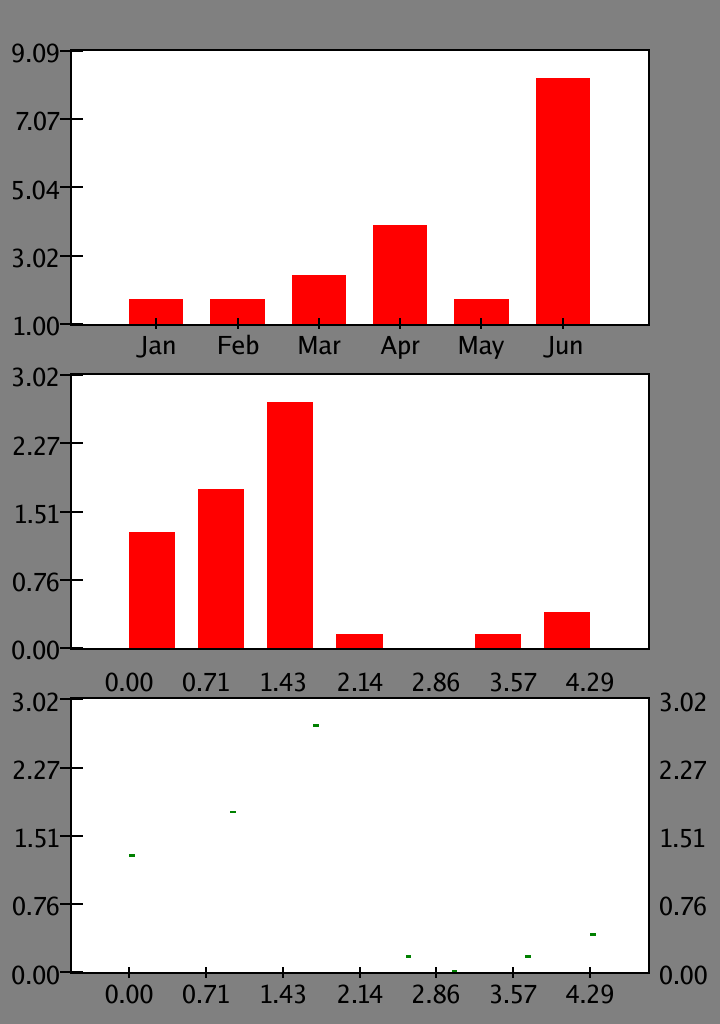
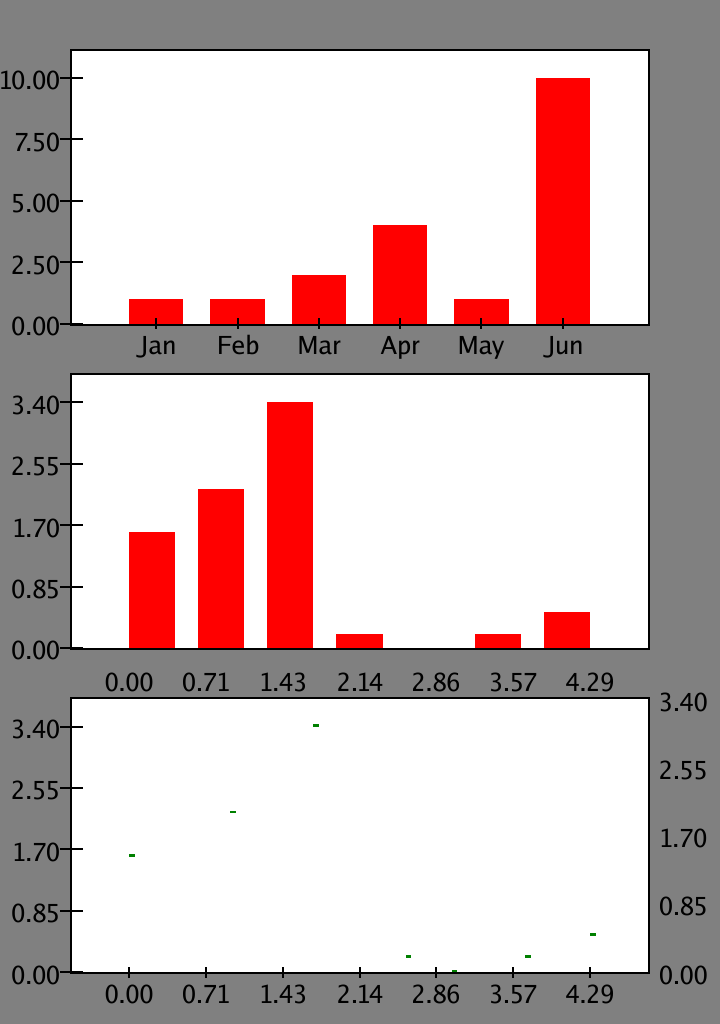
Adjusted LeftAxis values

diff --git a/canvas/axes.go b/canvas/axes.go
@@ -109,12 +109,12 @@ func (ax *Axes) BarPlot(X []string, Y []float64) error {
 		axX.Labels(X, padding+spaceW)
 	}
 
+	maxY = maxSlice(Y)
 	labelsY := []string{}
 	if Y != nil {
-		min := minSlice(Y)
-		step := (maxY - min) / float64(5)
+		step := (maxY) / float64(4)
 		for i := 0; i < 5; i++ {
-			labelsY = append(labelsY, fmt.Sprintf("%.2f", min+step*float64(i)))
+			labelsY = append(labelsY, fmt.Sprintf("%.2f", step*float64(i)))
 		}
 	}
 
@@ -122,7 +122,7 @@ func (ax *Axes) BarPlot(X []string, Y []float64) error {
 	if err != nil {
 		return err
 	}
-	axY.Labels(labelsY, 0)
+	axY.Labels(labelsY, 0.1)
 
 	return nil
 }
@@ -175,9 +175,10 @@ func (ax *Axes) ScatterPlot(X, Y []float64) error {
 	}
 	axX2.Labels(labels, padding)
 
+	maxY = maxSlice(Y)
 	if Y != nil {
 		min := minSlice(Y)
-		step := (maxY - min) / float64(5)
+		step := (maxY - min) / float64(4)
 		for i := 0; i < 5; i++ {
 			labelsY = append(labelsY, fmt.Sprintf("%.2f", min+step*float64(i)))
 		}
@@ -187,7 +188,7 @@ func (ax *Axes) ScatterPlot(X, Y []float64) error {
 	if err != nil {
 		return err
 	}
-	axY.Labels(labelsY, 0)
+	axY.Labels(labelsY, 0.1)
 
 	axY2, err := NewAxis(ax, RightAxis)
 	if err != nil {

diff --git a/canvas/axis.go b/canvas/axis.go
@@ -96,10 +96,11 @@ func (a *Axis) Labels(X []string, padding float64) {
 			NewTick(a, padding+spacing*float64(i), a.Size[0]*(0.4), 0.2, 2)
 		}
 	case LeftAxis:
+		spacing = (1 - padding) / (float64(len(X)) - 1)
 		for i := range X {
-			l, _ := NewLabel(a, a.Size[1]*(0.4), padding+spacing*float64(i), 0.1, X[i])
+			l, _ := NewLabel(a, a.Size[1]*(0.4), spacing*float64(i), 0.1, X[i])
 			l.XAlign = RightAlign
-			NewTick(a, a.Size[1]*(0.4), padding+spacing*float64(i), 0.2, 2)
+			NewTick(a, a.Size[1]*(0.4), spacing*float64(i), 0.2, 2)
 		}
 	case TopAxis:
 		for i := range X {
